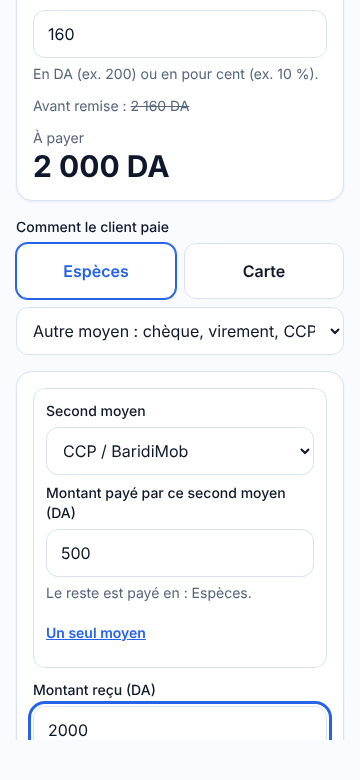
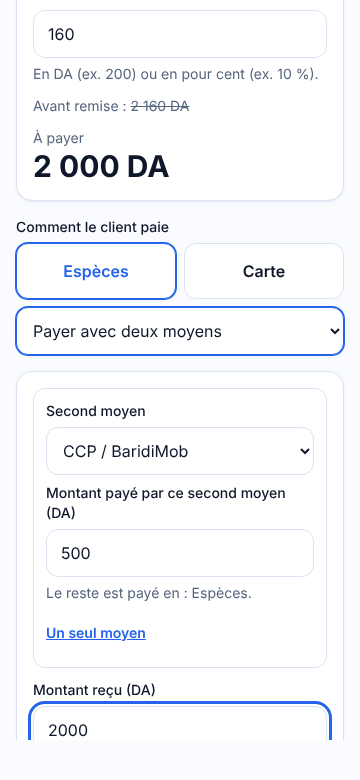
Caisse : « Payer avec deux moyens » devient une option du menu « Autre moyen » ; journal
Claude-Session: https://claude.ai/code/session_01QNePhsAh5FHAFVwZvmsAsF

diff --git a/src/components/Caisse.tsx b/src/components/Caisse.tsx
@@ -391,9 +391,18 @@ export function Caisse({ articles, magasin, remises }: { articles: ArticleCaisse
                   </label>
                 ))}
               </div>
-              <select aria-label={t('autreMoyen')} value={AUTRES_CHOIX.includes(choix) && choix !== 'carte' ? choix : ''} onChange={(e) => { const c = (e.target.value || 'especes') as ChoixPaiement; setChoix(c); if (c === 'credit') setSecond(null); }} className={`min-h-12 w-full min-w-0 rounded-xl border bg-surface px-3 text-base ${AUTRES_CHOIX.includes(choix) && choix !== 'carte' ? 'border-prim ring-1 ring-prim' : 'border-trait'}`}>
+              {/* Les cas rares (autre moyen, crédit, paiement en deux moyens) sont des options du menu. */}
+              <select aria-label={t('autreMoyen')} value={second ? 'deux' : AUTRES_CHOIX.includes(choix) && choix !== 'carte' ? choix : ''}
+                onChange={(e) => {
+                  const v = e.target.value;
+                  if (v === 'deux') { setChoix('especes'); setSecond({ mode: 'ccp', montant: '' }); return; }
+                  setSecond(null);
+                  setChoix((v || 'especes') as ChoixPaiement);
+                }}
+                className={`min-h-12 w-full min-w-0 rounded-xl border bg-surface px-3 text-base ${second || (AUTRES_CHOIX.includes(choix) && choix !== 'carte') ? 'border-prim ring-1 ring-prim' : 'border-trait'}`}>
                 <option value="">{t('autreMoyen')}</option>
                 {AUTRES_CHOIX.filter((c) => c !== 'carte').map((c) => <option key={c} value={c}>{t(`mode_${c}`)}</option>)}
+                <option value="deux">{t('deuxMoyens')}</option>
               </select>
             </fieldset>
             {choix === 'carte' ? <Message ton="info">{t('carteInactive')}</Message> : (
@@ -425,10 +434,6 @@ export function Caisse({ articles, magasin, remises }: { articles: ArticleCaisse
                   <Champ libelle={t('recu')} value={recu} onChange={(e) => setRecu(e.target.value)} inputMode="decimal" dir="ltr" maxLength={14} autoComplete="off" aide={t('recuAide')} />
                   {rendu !== null && rendu >= partEspeces ? <p className="text-lg font-bold text-prim">{t('aRendre')} : {formaterMontant(rendu - partEspeces, langue)}</p> : null}
                 </>
-              ) : null}
-              {/* Payer avec deux moyens : rare, donc discret. */}
-              {!second && choix !== 'credit' ? (
-                <button type="button" onClick={() => setSecond({ mode: choix === 'especes' ? 'ccp' : 'especes', montant: '' })} className="min-h-11 self-start text-sm font-semibold text-prim underline">{t('deuxMoyens')}</button>
               ) : null}
             </Carte>
             )}

diff --git a/tests/e2e/suivi-ajouts.spec.ts b/tests/e2e/suivi-ajouts.spec.ts
@@ -82,7 +82,9 @@ test('caisse : remise sur un article et sur le total, paiement en deux moyens, m
   await karima.getByRole('button', { name: 'Encaisser' }).click();
   await karima.getByLabel('Remise sur le total').fill('160');
   await expect(karima.getByRole('dialog').getByText('2 000 DA', { exact: true })).toBeVisible();
-  await karima.getByRole('button', { name: 'Payer avec deux moyens' }).click();
+  // Paiement en deux moyens : rare, donc rangé dans le menu « Autre moyen ».
+  await expect(karima.getByRole('button', { name: 'Payer avec deux moyens' })).toHaveCount(0);
+  await karima.getByRole('combobox', { name: /Autre moyen/ }).selectOption('deux');
   await karima.getByRole('combobox', { name: /Second moyen/ }).selectOption('ccp');
   await karima.getByLabel('Montant payé par ce second moyen (DA)').fill('500');
   await karima.getByLabel('Montant reçu (DA)').fill('2000');

diff --git a/docs/ajouts-1/02-bilan.md b/docs/ajouts-1/02-bilan.md
@@ -32,7 +32,8 @@ Pas fait, à sa demande : l'alerte de stock sur le téléphone. En attente de sa
 ### Retouche de la caisse demandée par le propriétaire (18/11/2026)
 
 - Écran d'encaissement simplifié : **Espèces** et **Carte** en gros boutons ; chèque, virement, CCP / BaridiMob, autre et
-  « À crédit » dans un **menu déroulant** ; « Payer avec deux moyens » devient un lien discret.
+  « À crédit » dans un **menu déroulant** ; « Payer avec deux moyens » est aussi une option de ce menu (rare en Algérie :
+  rien ne s'affiche tant qu'on ne la choisit pas).
 - **Carte** : visible mais **pas encore activée** (« Le paiement par carte n'est pas encore activé. Choisissez un autre
   moyen. »), la vente ne peut pas être validée avec. Rien n'est enregistré ni traité ; à activer plus tard.
 - Un **ticket de caisse** est toujours remis ; la facture seulement en cochant « Faire aussi une facture (le client la demande) ».

diff --git a/docs/journal/JOURNAL.md b/docs/journal/JOURNAL.md
@@ -2,6 +2,11 @@
 
 Entrées les plus récentes en haut. Une entrée par action importante.
 
+## 18/11/2026 — Caisse : « Payer avec deux moyens » rangé dans le menu
+
+- Demande du propriétaire : le paiement en deux moyens est rare en Algérie, il ne doit pas être sous les yeux. Le lien a été retiré ; c'est maintenant une option du menu « Autre moyen ». Choisir Espèces ou Carte l'annule.
+- Tests : 86 parcours ✅. Mis dans `main` (même accord que le lot précédent).
+
 ## 18/11/2026 — Caisse simplifiée, puis lot d'ajouts n° 1 mis dans `main`
 
 - Demande du propriétaire : encaissement simple et rapide. Espèces et Carte en gros boutons, les autres moyens (chèque, virement, CCP, autre, à crédit) dans un menu déroulant, « deux moyens » en lien discret ; ticket toujours, facture seulement si on coche « Faire aussi une facture ».
